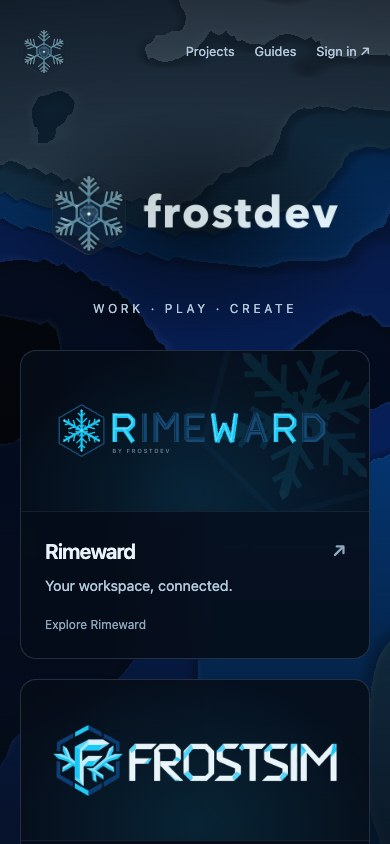
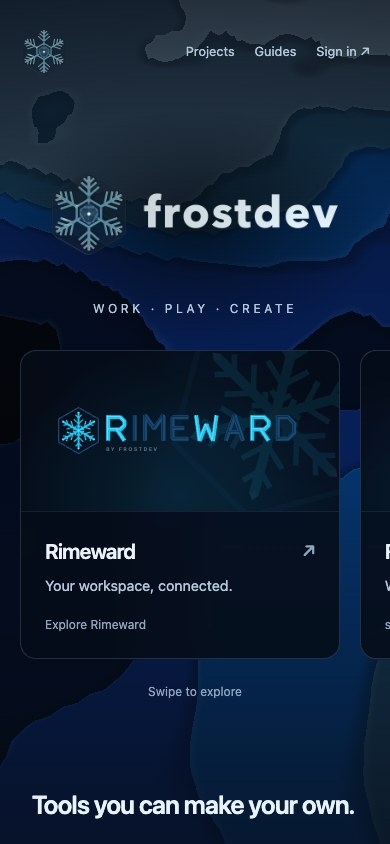
Fix background flashes and mobile project scrolling

diff --git a/src/scripts/splash/scene.ts b/src/scripts/splash/scene.ts
@@ -4,20 +4,12 @@
 import * as THREE from 'three';
 import { terrainVert, terrainFrag } from './shaders.ts';
 
-export interface SceneHandle {
-  /** 1.0 normally, ~3.0 while the Enter CTA is hovered/focused (morph speeds up). */
-  setGust(target: number): void;
-  /** Begin the 650ms dive down into a valley (index.ts fires the flash + nav). */
-  startGate(): void;
-}
-
 export interface SceneOptions {
   /** Render exactly one frame (reduced motion, or ?still for screenshots). */
   still?: boolean;
 }
 
 // Brand palette, deep pits → pale plateaus (from assets/frostbackground*.png).
-// Exported for the /perf bench, which builds the same mesh under its own clock.
 export const PALETTE = [0x0a1626, 0x123b66, 0x2e6db4, 0x1f8fc9, 0x5f93ab, 0x8fa6b5, 0xc4d4dc, 0xeaf6f9];
 export const FOG_COLOR = 0x060d18;
 export const LEVELS = 8;
@@ -28,7 +20,7 @@ export const SEGMENTS: [[number, number], [number, number]] = [[420, 260], [260,
 // High and fairly top-down: plates read as blobby paper cutouts, not a horizon.
 export const CAM_BASE = new THREE.Vector3(0, 10.5, 5.0);
 
-export function createScene(canvas: HTMLCanvasElement, opts: SceneOptions = {}): SceneHandle | null {
+export function createScene(canvas: HTMLCanvasElement, opts: SceneOptions = {}): void {
   const reduced = opts.still || matchMedia('(prefers-reduced-motion: reduce)').matches;
   const fine = matchMedia('(pointer: fine)').matches;
   const high = fine && (navigator.hardwareConcurrency || 0) >= 8;
@@ -50,7 +42,7 @@ export function createScene(canvas: HTMLCanvasElement, opts: SceneOptions = {}):
       preserveDrawingBuffer: !!opts.still,
     });
   } catch {
-    return null; // no WebGL — the CSS ground layer stays the experience
+    return; // no WebGL — the CSS ground layer stays the experience
   }
   renderer.setPixelRatio(Math.min(devicePixelRatio || 1, high ? 1.75 : 1.25));
   renderer.setSize(innerWidth, innerHeight, false);
@@ -68,7 +60,6 @@ export function createScene(canvas: HTMLCanvasElement, opts: SceneOptions = {}):
 
   const uniforms = {
     uTime: { value: 0 },
-    uFlow: { value: 1 },
     uDetail: { value: 1 },
     uLevels: { value: LEVELS },
     uAmp: { value: AMP },
@@ -110,8 +101,6 @@ export function createScene(canvas: HTMLCanvasElement, opts: SceneOptions = {}):
     if (notch === 1) {
       renderer.setPixelRatio(1);
       renderer.setSize(innerWidth, innerHeight, false);
-    } else {
-      uniforms.uDetail.value = 0;
     }
   }
 
@@ -129,12 +118,6 @@ export function createScene(canvas: HTMLCanvasElement, opts: SceneOptions = {}):
     );
   }
 
-  // ------------------------------------------------------- flow and gate
-  let flow = 1;
-  let flowTarget = 1;
-  let gateStart = 0;
-  const gateFrom = new THREE.Vector3();
-
   // ------------------------------------------------------------ the loop
   let t = reduced ? 24 : 0; // still frame: far enough in for interesting shapes
   let raf = 0;
@@ -143,13 +126,13 @@ export function createScene(canvas: HTMLCanvasElement, opts: SceneOptions = {}):
   let visible = document.visibilityState === 'visible';
   let intersecting = true;
 
-  function step(dt: number, now: number) {
+  function step(dt: number) {
     const p = Math.min(Math.max(scrollY / (innerHeight * 1.2), 0), 1);
     canvas.style.setProperty('--splash-opacity', (1 - 0.6 * Math.min(scrollY / innerHeight, 1)).toFixed(3));
 
-    flow += (flowTarget - flow) * (1 - Math.exp(-3 * dt));
     uniforms.uTime.value = t;
-    uniforms.uFlow.value = flow;
+    // Fade detail changes instead of remapping the whole landscape in one frame.
+    uniforms.uDetail.value += ((notch >= 2 ? 0 : 1) - uniforms.uDetail.value) * (1 - Math.exp(-dt));
 
     // Slow autonomous sway + mouse parallax + scroll descent. The landscape
     // itself morphs via the shader; the camera just breathes over it.
@@ -159,14 +142,8 @@ export function createScene(canvas: HTMLCanvasElement, opts: SceneOptions = {}):
       CAM_BASE.y - p * 2.2 + my * 0.4,
       CAM_BASE.z - p * 2.0
     );
-    if (gateStart) {
-      const g = Math.min((now - gateStart) / 650, 1);
-      const ease = g * g; // easeInQuad — accelerating plunge
-      camera.position.lerpVectors(gateFrom, new THREE.Vector3(gateFrom.x * 0.3, 0.9, -1.5), ease);
-    } else {
-      const k = 1 - Math.exp(-4 * dt);
-      camera.position.lerp(target, reduced ? 1 : k);
-    }
+    const k = 1 - Math.exp(-4 * dt);
+    camera.position.lerp(target, reduced ? 1 : k);
     camera.lookAt(0, 0, -3.5);
   }
 
@@ -183,9 +160,10 @@ export function createScene(canvas: HTMLCanvasElement, opts: SceneOptions = {}):
     const dt = lastT ? Math.min((now - lastT) / 1000, 0.05) : 1 / 60;
     lastT = now;
     t += dt;
-    step(dt, now);
-    render();
+    // Resizing the drawing buffer clears it; redraw within the same frame.
     govern(dt);
+    step(dt);
+    render();
   }
 
   function pause() {
@@ -202,7 +180,7 @@ export function createScene(canvas: HTMLCanvasElement, opts: SceneOptions = {}):
   }
 
   function renderStill() {
-    step(0, performance.now());
+    step(0);
     render();
   }
 
@@ -210,13 +188,7 @@ export function createScene(canvas: HTMLCanvasElement, opts: SceneOptions = {}):
     camera.aspect = innerWidth / innerHeight;
     camera.updateProjectionMatrix();
     renderer.setSize(innerWidth, innerHeight, false);
-    if (reduced) renderStill();
-  });
-
-  // Same as the valley: bfcache restores the page mid-dive, so let go of the
-  // camera and the idle lerp eases it back up.
-  addEventListener('pageshow', (e) => {
-    if (e.persisted) gateStart = 0;
+    renderStill();
   });
 
   if (reduced) {
@@ -232,16 +204,4 @@ export function createScene(canvas: HTMLCanvasElement, opts: SceneOptions = {}):
     }).observe(canvas);
     resume();
   }
-
-  return {
-    setGust(target: number) {
-      flowTarget = target;
-    },
-    startGate() {
-      if (reduced || gateStart) return;
-      gateStart = performance.now();
-      gateFrom.copy(camera.position);
-      resume();
-    },
-  };
 }

diff --git a/src/scripts/splash/index.ts b/src/scripts/splash/index.ts
@@ -1,14 +1,9 @@
 // Splash entry — tiny and sync. All of three arrives via the dynamic import
 // of scene.ts, kicked off at idle (or first interaction, whichever is first).
-import type { SceneHandle } from './scene.ts';
 
 const canvas = document.getElementById('splash-canvas') as HTMLCanvasElement | null;
-const cta = document.getElementById('enter') as HTMLAnchorElement | null;
 // ?still renders a single deterministic frame — used for screenshots/review.
 const still = new URLSearchParams(location.search).has('still');
-const reduced = still || matchMedia('(prefers-reduced-motion: reduce)').matches;
-
-let handle: SceneHandle | null = null;
 let booted = false;
 
 function boot() {
@@ -16,10 +11,10 @@ function boot() {
   booted = true;
   import('./scene.ts')
     .then((m) => {
-      handle = m.createScene(canvas, { still });
+      m.createScene(canvas, { still });
     })
     .catch(() => {
-      // Chunk failed to load — the CSS ground layer stays, CTA still navigates.
+      // Chunk failed to load — the CSS ground layer stays.
     });
 }
 
@@ -27,46 +22,3 @@ if ('requestIdleCallback' in window) requestIdleCallback(boot);
 else setTimeout(boot, 1);
 addEventListener('pointermove', boot, { once: true, passive: true });
 addEventListener('scroll', boot, { once: true, passive: true });
-
-if (cta) {
-  const gustUp = () => handle?.setGust(3);
-  const gustDown = () => handle?.setGust(1);
-  cta.addEventListener('pointerenter', gustUp);
-  cta.addEventListener('pointerleave', gustDown);
-  cta.addEventListener('focus', gustUp);
-  cta.addEventListener('blur', gustDown);
-
-  let gating = false;
-  // bfcache restores the page mid-dive: re-arm the CTA and drop the flash.
-  addEventListener('pageshow', (e) => {
-    if (!e.persisted) return;
-    gating = false;
-    document.getElementById('gate-flash')?.classList.remove('flash-in');
-    try {
-      sessionStorage.removeItem('fd-gate');
-    } catch {
-      /* private mode */
-    }
-  });
-  cta.addEventListener('click', (e) => {
-    e.preventDefault();
-    if (gating) return;
-    if (reduced || !handle) {
-      location.href = cta.href; // plain navigation
-      return;
-    }
-    gating = true;
-    handle.startGate(); // camera dive + glow, 650ms
-    setTimeout(() => document.getElementById('gate-flash')?.classList.add('flash-in'), 350);
-    setTimeout(() => {
-      try {
-        sessionStorage.setItem('fd-gate', '1'); // login plays the inverse
-      } catch {
-        /* private mode */
-      }
-    }, 500);
-    setTimeout(() => {
-      location.href = cta.href;
-    }, 650);
-  });
-}

diff --git a/src/scripts/splash/shaders.ts b/src/scripts/splash/shaders.ts
@@ -8,7 +8,6 @@
 
 export const terrainVert = /* glsl */ `
 uniform float uTime;
-uniform float uFlow;    // morph speed multiplier (CTA hover boosts it)
 uniform float uDetail;  // 1 = full domain warp, 0 = governor-reduced
 uniform float uLevels;
 uniform float uAmp;
@@ -52,7 +51,7 @@ float fbm2(vec2 p) {
 void main() {
   vec3 pos = position;
   vec2 p = pos.xz * 0.13;
-  float t = uTime * 0.018 * uFlow;
+  float t = uTime * 0.018;
 
   // Domain warp gives the blobby, organic plate shapes of the reference art;
   // scrolling the domain makes the whole landscape slowly become a new one.
@@ -89,14 +88,14 @@ void main() {
   // just outside its boundary…
   col *= 1.0 - 0.30 * smoothstep(0.80, 0.995, f);
   // …and each plate carries a faint bright rim along its own cut edge.
-  col += vec3(0.05) * smoothstep(0.07, 0.0, f);
+  col += vec3(0.05) * (1.0 - smoothstep(0.0, 0.07, f));
 
   // Distance fade into the page background so the mesh has no horizon line.
   float fogF = smoothstep(uFogRange.x, uFogRange.y, distance(vWorld, uCam));
   col = mix(col, uFog, fogF);
 
   // Soft alpha vignette at the plane borders — blends into the CSS ground.
-  float edge = smoothstep(28.0, 21.0, abs(vWorld.x)) * smoothstep(20.0, 14.0, abs(vWorld.z + 3.0));
+  float edge = (1.0 - smoothstep(21.0, 28.0, abs(vWorld.x))) * (1.0 - smoothstep(14.0, 20.0, abs(vWorld.z + 3.0)));
   gl_FragColor = vec4(col, edge * (1.0 - fogF * 0.9));
 }
 `;

diff --git a/docs/public-pages.md b/docs/public-pages.md
@@ -4,6 +4,15 @@ The hub `/` links five projects and the guide index. `/rimeward`, `/crosspane` a
 `/rimewire` contain public product descriptions and demonstrations. `/privacy`
 describes current storage, provider connections and local versus shared data.
 
+The desktop project carousel animates and supports dragging, arrow keys and
+pause/resume. Phones use native horizontal scrolling with snap points, so vertical
+swipes scroll the page normally. All five project links remain available without
+JavaScript and with reduced motion. Phone rotation preserves the horizontal layout.
+
+The background redraws immediately after drawing-buffer changes and blends quality
+reductions. A controlled 260-frame WebGL replay reproduced a blank frame and an
+abrupt detail change before the fix; the fixed replay contains no blank frames.
+
 `/guides` links five comprehensive project guides:
 
 - `/guides/rimeward-first-workspace`
@@ -32,3 +41,7 @@ pages at 1440, 390 and 320 pixels, canonical metadata, all 39 chapter anchors,
 mobile navigation, demo controls and loaded assets. Publication additionally
 checks every HTML page and crawler file against the immutable release at the
 origin and public HTTPS. Rimeward tests and installer workflows are separate.
+Carousel acceptance additionally covers Chromium touch gestures, all five
+destinations, keyboard navigation, rotation and reduced motion at 320, 390 and
+760 pixels. WebKit checks cover layout and keyboard focus at those widths.
+These are browser checks, not physical-device acceptance.
